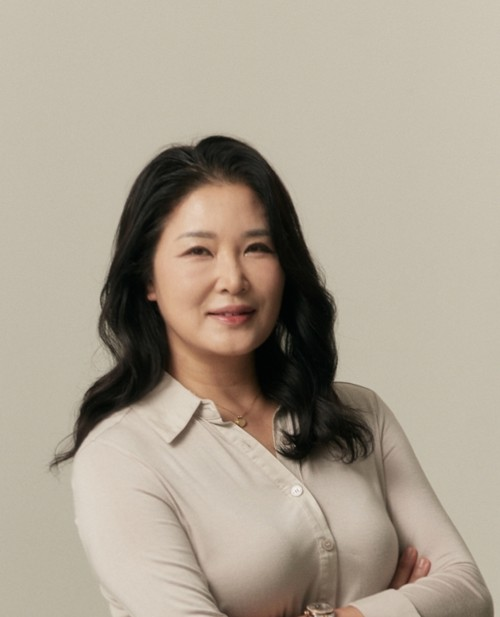
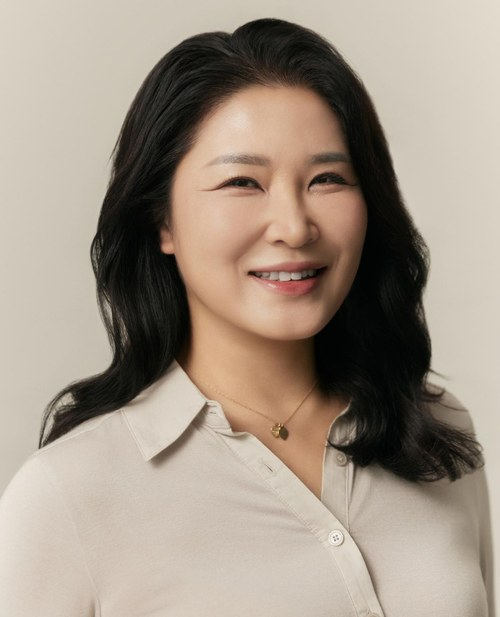
하이퐁 단독 행사: 대표 사진 교체 (2026 프로필)
Claude-Session: https://claude.ai/code/session_01NZVA23db3YUTFRLkquJDWt

diff --git a/haiphong.html b/haiphong.html
@@ -307,7 +307,7 @@ footer a{text-decoration:underline}
   <a class="btn btn-t" href="tel:05037155062">대표전화 0503-7155-0662</a>
  </div>
  <p class="fine">※ 골프는 10시 출발, 클럽 중식 후 티오프 · 골프장 사정으로 순서가 바뀔 수 있습니다 · 취소·환불은 항공사 규정과 <a href="/refund.html" style="color:var(--g);font-weight:700">그린휴 취소·환불 규정</a>을 따릅니다</p>
- <div class="host"><img loading="lazy" src="assets/hp-ceo.jpg" alt="오선혜 대표"><div><small>대표 오선혜 기획</small><b>그린휴가 직접 짠 일정,<br>대표가 하이퐁에서 챙깁니다</b><p>전담 인솔자와 한국어 가이드가 매일 함께하고, 고급 전용차량으로 이동합니다.</p></div></div>
+ <div class="host"><img loading="lazy" src="assets/hp-ceo.jpg?v=20261112" alt="오선혜 대표"><div><small>대표 오선혜 기획</small><b>그린휴가 직접 짠 일정,<br>대표가 하이퐁에서 챙깁니다</b><p>전담 인솔자와 한국어 가이드가 매일 함께하고, 고급 전용차량으로 이동합니다.</p></div></div>
  <p class="imgs">안내문 이미지 · <a href="assets/hp-guide9-1.jpg" target="_blank" rel="noopener">1쪽</a> · <a href="assets/hp-guide9-2.jpg" target="_blank" rel="noopener">2쪽</a> · <a href="/">그린휴 홈으로</a></p>
 </div>
 <section class="ghm" aria-label="그린휴 더 보기"><div class="wrap">
